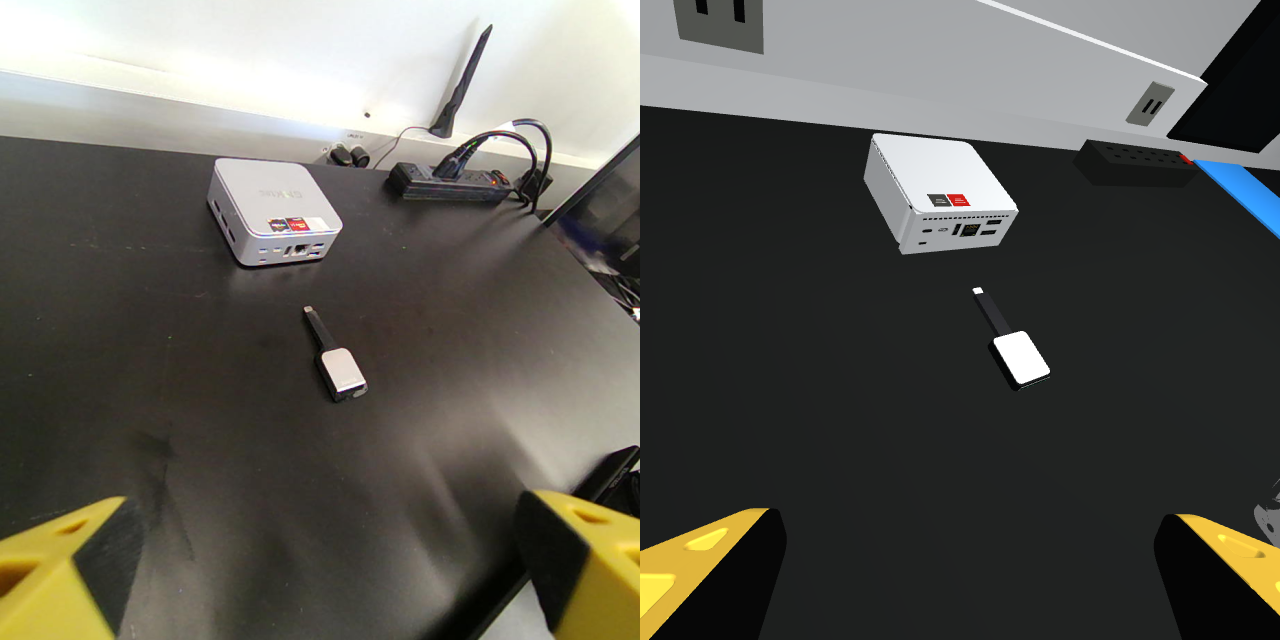
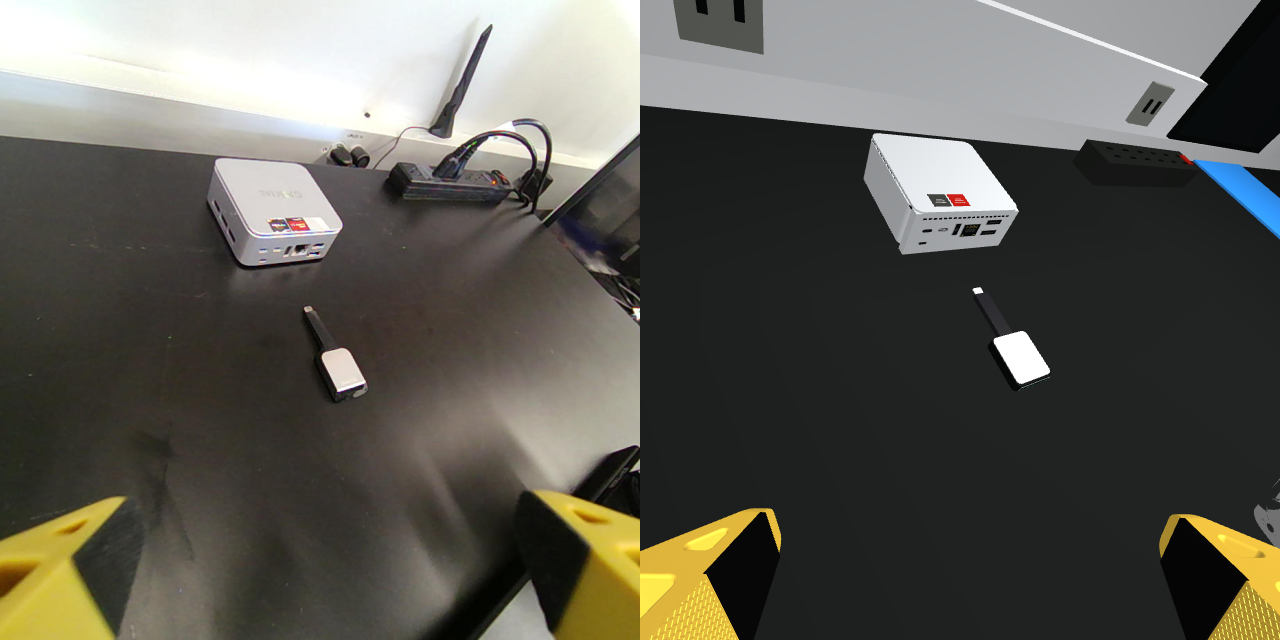
FlexPoint pads from the CAD pocket: 1 mm black sheet flush with the inner face, 3.5-19.5 mm from the tip end (notch); grip surface on the flush face
- flexpoint._tip_geometry finds the face plane (fit 20-45 mm from the end, 3 deg draft) and the rubber
  pocket (first recess >= 5 mm long, 4.4 mm deep) in the soft_tips mesh.
- Contact box on the flush face from the tip end (yellow lip) to the notch.
- builder.sphere_pads: decide the pads' inner side with the fingers half open; closed FlexPoint pads
  overlap past the tcp and the spheres landed on the outer faces (1 mm behind the grip surface).

Claude-Session: https://claude.ai/code/session_014Ek68jJhcUmXk8aHKRA8yx

diff --git a/blind_insertion/assets/flexpoint.py b/blind_insertion/assets/flexpoint.py
@@ -10,19 +10,21 @@ import numpy as np
 from scipy.spatial import ConvexHull
 
 ASSET = Path(__file__).with_suffix('') / 'flexible_4310.xml'
-# Black rubber pad on each soft tip's inner face (not in the upstream CAD). Thickness is a photo
-# estimate until measured with calipers; the contact surface is the pad's inner face.
-PAD_THICKNESS = 0.001
-PAD_LENGTH = 0.016       # from the tip end to just past the first (small) hole; user-checked against the real tips
+# Black rubber pad (not in the upstream CAD): it fills the pocket in each soft tip's inner face,
+# ~3.5-19.5 mm from the tip end (its far edge is the notch on the real tip), flush with the face.
+# The grip surface is that flush face: the yellow lip at the tip end and the rubber.
+PAD_THICKNESS = 0.001   # visible rubber sheet (the CAD pocket is ~4.4 mm deep); photo estimate
 PAD_RGBA = [.03, .03, .03, 1]
 TIP_LINK_BITS = (8, 1)            # builder.FINGER_LINK_BITS: tips collide with table and fixture only
 
 
 def _tip_geometry(model, data, body, s):
-    """Inner face of a soft tip in the source world frame (closing axis x, approach z).
+    """Inner face and rubber pocket of a soft tip in the source world frame (closing axis x,
+    approach z; tip end at max z).
 
-    `s` = +1 if the tip sits on the +x side. Returns the face plane u = a + b*z + c*y with
-    u = s*x (the tip lies at u >= plane), the face outline points (y, z) and the tip vertices.
+    `s` = +1 if the tip sits on the +x side, u = s*x. Returns the face plane u = a + b*z + c*y
+    (no tip vertex inside it), the pocket's z range (lo, hi), depth below the face, outline
+    [(y, z)], and the tip vertices.
     """
     g = next(i for i in range(model.ngeom) if model.geom_bodyid[i] == model.body(body).id
              and model.geom_type[i] == mujoco.mjtGeom.mjGEOM_MESH
@@ -31,29 +33,36 @@ def _tip_geometry(model, data, body, s):
     a0, n = model.mesh_vertadr[mid], model.mesh_vertnum[mid]
     V = model.mesh_vert[a0:a0 + n] @ data.geom_xmat[g].reshape(3, 3).T + data.geom_xpos[g]
     u, y, z = s * V[:, 0], V[:, 1], V[:, 2]
-    # face points: within 0.6 mm of the innermost vertex of their 5 mm slice along z
-    band = np.floor(z / .005)
-    umin = {b: u[band == b].min() for b in np.unique(band)}
-    lip = min(umin.values())
-    face = np.array([u[i] - umin[band[i]] < 6e-4 and umin[band[i]] < lip + 2e-3 for i in range(n)])
+    dz = z.max() - z                             # distance from the tip end
+    # face plane: fit to the innermost vertices of 0.5 mm slices 20-45 mm from the end (past the
+    # pocket), then make it the support plane of the face there and of the lip at the end
+    sl = np.floor(dz / 5e-4).astype(int)
+    umin = np.full(sl.max() + 1, np.inf)
+    np.minimum.at(umin, sl, u)
+    face = (dz > .020) & (dz < .045) & (u - umin[sl] < 3e-4)
     A = np.stack([np.ones(face.sum()), z[face], y[face]], 1)
     _, b, c = np.linalg.lstsq(A, u[face], rcond=None)[0]
-    a = (u - b * z - c * y).min()               # support plane: no tip vertex inside it
-    on = (u - (a + b * z + c * y)) < 1e-3
-    pts = np.stack([y[on], z[on]], 1)
-    return (a, b, c), _clip_below(pts[ConvexHull(pts).vertices], z.max() - PAD_LENGTH), V
-
-
-def _clip_below(poly, z0):
-    """Part of a convex polygon [(y, z)] with z >= z0 (the pad covers the face's tip end, also
-    across the recess behind the lip)."""
-    out = []
-    for p, q in zip(poly, np.roll(poly, -1, 0)):
-        if p[1] >= z0:
-            out.append(p)
-        if (p[1] - z0) * (q[1] - z0) < 0:
-            out.append(p + (q - p) * (z0 - p[1]) / (q[1] - p[1]))
-    return np.array(out)
+    r = u - b * z - c * y                        # offset from a plane with the face's slope
+    a = r[(dz < .003) | ((dz > .020) & (dz < .045))].min()
+    rec = r - a                                  # recess below the face plane
+    # pocket: from the end of the lip to the first slice back on the face plane (innermost vertex
+    # of each 0.5 mm slice; slices without vertices lie on large flat facets and are skipped)
+    rmin = np.full(sl.max() + 1, np.inf)
+    np.minimum.at(rmin, sl, rec)
+    idx = np.arange(len(rmin))
+    deep = idx[(rmin > 1.5e-3) & np.isfinite(rmin) & (idx * 5e-4 < .030)]
+    flat = idx[rmin < 5e-4]
+    for first in deep:                           # first recessed run >= 5 mm (not the rounded end)
+        nxt = flat[flat > first]
+        if len(nxt) and (nxt.min() - first) * 5e-4 >= .005:
+            break
+    lo_dz = (flat[flat < first].max() + 1) * 5e-4
+    hi_dz = nxt.min() * 5e-4
+    inside = (dz > lo_dz - 5e-4) & (dz < hi_dz)    # the floor's facet corners sit on the lip slice
+    floor = inside & (rec > 1.5e-3) & (rec < 6e-3)
+    depth = float(np.median(rec[floor]))
+    pts = np.stack([y[floor], z[floor]], 1)
+    return (a, b, c), (z.max() - hi_dz, z.max() - lo_dz), depth, pts[ConvexHull(pts).vertices], V
 
 
 def _hull_points(V, slices=8):
@@ -97,26 +106,28 @@ def install(spec):
         R = data.xmat[bid].reshape(3,3)
         sign = 1 if side == 'left' else -1
         local = lambda p: R.T @ (np.asarray(p) - data.xpos[bid])   # noqa: E731  source world -> body
-        (pa, pb, pc), outline, V = _tip_geometry(model, data, old, sign)
+        (pa, pb, pc), (z_lo, z_hi), depth, outline, V = _tip_geometry(model, data, old, sign)
         nu = np.array([1.0, -pc, -pb]) / np.linalg.norm([1.0, -pc, -pb])     # face normal (u, y, z), outward
         n_w = np.array([sign * nu[0], nu[1], nu[2]])                         # ... in the source world
-        # visual pad: the face outline, and the same outline PAD_THICKNESS toward the other tip
-        back = np.array([[sign * (pa + pb * z + pc * y), y, z] for y, z in outline])
-        verts = np.concatenate([back, back - PAD_THICKNESS * n_w])
+        # visual pad: a PAD_THICKNESS sheet in the pocket outline, flush with the face (1e-4 proud, no z-fighting)
+        front = np.array([[sign * (pa + pb * z + pc * y), y, z] for y, z in outline]) - 1e-4 * n_w
+        verts = np.concatenate([front, front + (PAD_THICKNESS + 1e-4) * n_w])
         source.add_mesh(name=side + '_pad_rubber', uservert=np.array([local(v) for v in verts]).ravel().tolist())
         body.add_geom(name=side + '_pad_visual', type=mujoco.mjtGeom.mjGEOM_MESH, meshname=side + '_pad_rubber',
                       rgba=PAD_RGBA, contype=0, conaffinity=0, mass=0)
-        # contact pad (builder.sphere_pads puts the contact spheres on its inner face): its inner
-        # face lies on the rubber's inner surface, near the tip where the reader is held
-        h, y0, z0 = .0017, .0007, .134
-        inner = np.array([sign * (pa + pb * z0 + pc * y0), y0, z0]) - PAD_THICKNESS * n_w
+        # contact pad (builder.sphere_pads puts the contact spheres on its inner face): on the flush
+        # face, from the tip end (yellow lip) over the rubber to the pocket's far edge
+        z_end = V[:, 2].max()
+        h, y0, hz = .0017, .0007, (z_end - z_lo) / 2
+        z0 = z_end - hz
+        inner = np.array([sign * (pa + pb * z0 + pc * y0), y0, z0])
         ax = n_w
         ay = np.array([0., 1, 0]) - ax[1] * ax; ay /= np.linalg.norm(ay)
         Rb = np.stack([ax, ay, np.cross(ax, ay)], 1)
         quat = np.zeros(4); mujoco.mju_mat2Quat(quat, (R.T @ Rb).flatten())
         body.add_geom(name=side+'_pad', type=mujoco.mjtGeom.mjGEOM_BOX,
                       pos=local(inner + h * n_w), quat=quat,
-                      size=[h,.0072,.0082], rgba=PAD_RGBA, group=3,
+                      size=[h,.0072,hz], rgba=PAD_RGBA, group=3,
                       contype=4, conaffinity=3, condim=4, priority=1,
                       friction=[1,.005,.0005],solref=[.01,1],mass=0)
         # the yellow tip itself keeps out of the table and the PC (not the reader: pads only)

diff --git a/blind_insertion/assets/builder.py b/blind_insertion/assets/builder.py
@@ -497,7 +497,9 @@ def sphere_pads(spec: mujoco.MjSpec, info: "RobotInfo", n: int = 3, radius: floa
     """
     m0 = spec.compile()
     d0 = mujoco.MjData(m0)
-    mujoco.mj_kinematics(m0, d0)
+    for j in info.finger_joints:   # half open: closed FlexPoint pads overlap past the tcp, which
+        d0.qpos[m0.jnt_qposadr[mujoco.mj_name2id(m0, mujoco.mjtObj.mjOBJ_JOINT, j)]] = info.max_opening / 2
+    mujoco.mj_kinematics(m0, d0)   # would put the spheres on the pads' outer faces
     tcp = d0.site_xpos[mujoco.mj_name2id(m0, mujoco.mjtObj.mjOBJ_SITE, info.tcp_site)]
     new = []
     # look geoms up by iterating: after add_geom, spec.geom(name) can return a stale element (a
